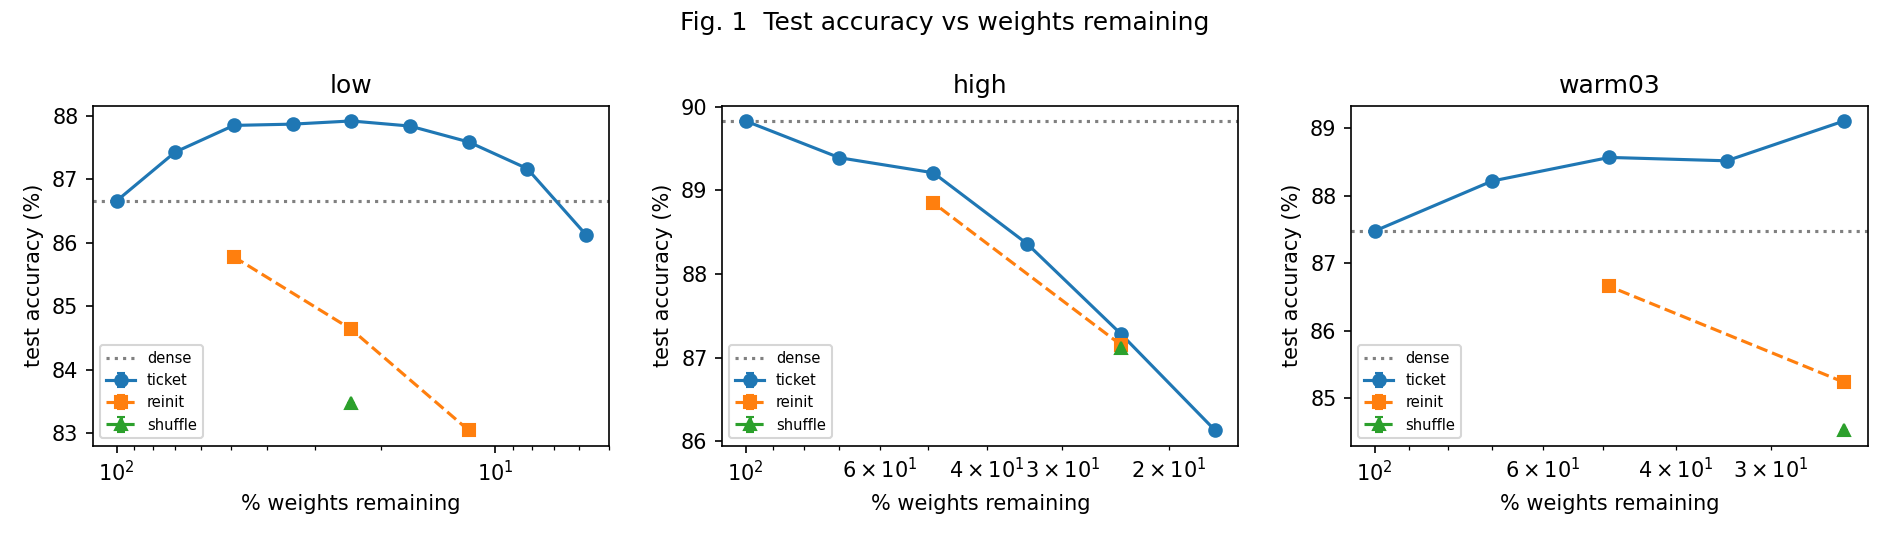
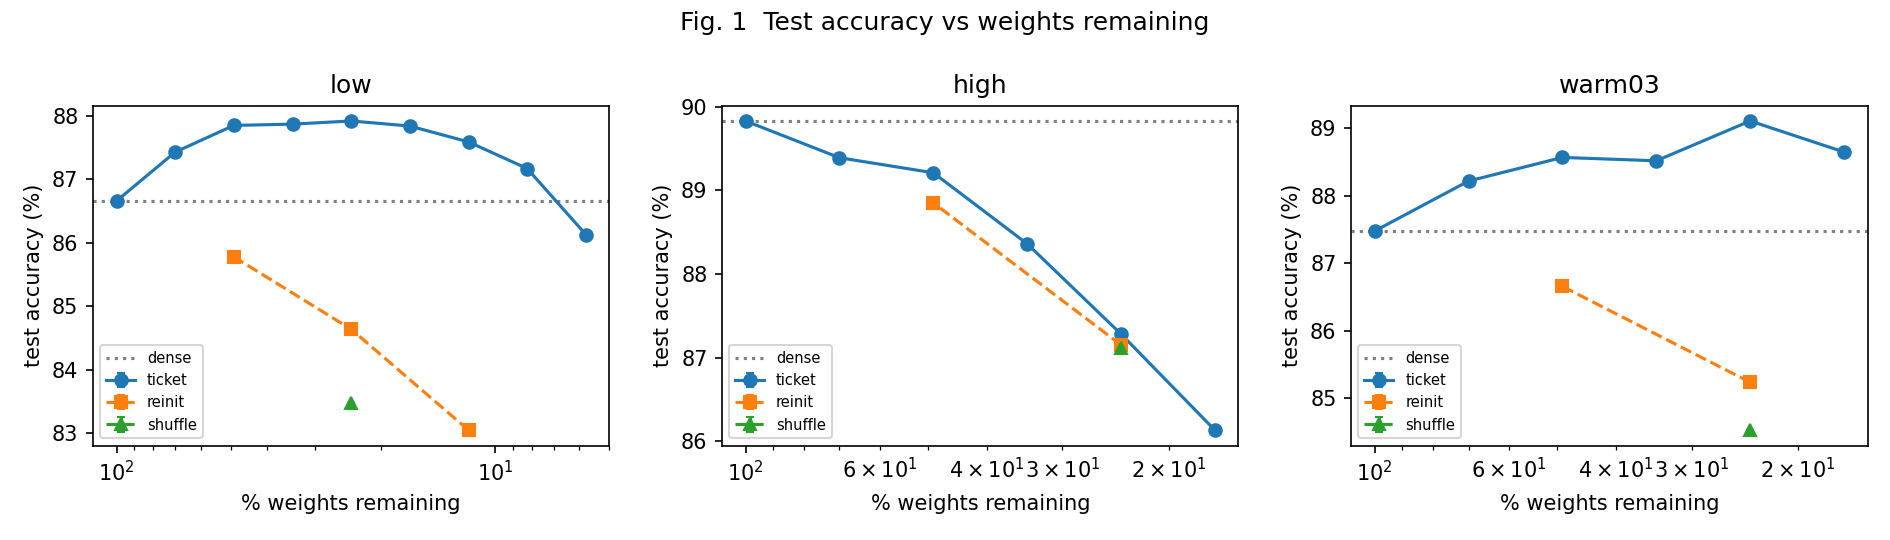
Status 08:25 UTC: Phase A 31/60, forecast, findings in Methodology section 10; high_warm auto-start after low

diff --git a/Methodology.md b/Methodology.md
@@ -138,15 +138,16 @@ collapse rather than a systematic ticket deficit (F1, F2).
 | # | Step | Status |
 |---|---|---|
 | 0 | Pilot on Conv-4 / Fashion-MNIST (CPU + GPU re-run); re-analysis → `pilot_results/PILOT_FINDINGS.md` | **done** (sessions 1–2) |
-| 1 | Code + tests (21 tests pass on the T4) | **done** |
+| 1 | Code + tests (23 tests pass on the T4) | **done** |
 | 2 | Benchmark / smoke run on the T4: ~9 min per 15k training, 2.46 GB peak VRAM; budget re-derived | **done** (session 2) |
-| 3a | Phase A: `low` seed 0 (15 trainings) | **running** (session 3; r0 dense 86.66%) |
-| 3b | Phase A: `high`, `warm03`, `high_warm` seed 0 | pending |
+| 3a | Phase A: `low` seed 0 (15 trainings) | **running**, 13/15 (r8 reinit + shuffle left; expected done ≈ 09:05 UTC) |
+| 3b | Phase A: `high`, `warm03` seed 0 (15 each), in parallel with `low` under MPS | **running**: high 9/15, warm03 9/15 (expected done ≈ 10:30–10:45 UTC) |
+| 3b' | Phase A: `high_warm` seed 0 (15) | pending; starts automatically when `low` finishes (expected done ≈ 12:30 UTC) |
 | 3c | Conv-4 chain at eta = 0.1 with the full S(t) trajectory | optional; needs `pilot/data/*.gz` on Drive (O8) |
-| 4 | **Gate A:** the ticket beats trained baselines at ≥ 3 sparsities for `low` and `warm03`, and not for `high` (`results/gate_a.md`). If it fails, stop and write up why | pending |
+| 4 | **Gate A:** the ticket beats trained baselines at ≥ 3 sparsities for `low` and `warm03`, and not for `high` (`results/gate_a.md`). If it fails, stop and write up why | partial: low PASS (3/3), warm03 2/2 so far (needs r6/r8), high has two tiny positive advantages (see section 10) |
 | 5 | Phase B: seed 1 of `low`, `high` and `warm03` (error bars) | pending (after Gate A) |
 | 6 | Phase B: H4 (lam selection, then 3 conditions × 3 masks × ticket + shuffle) | pending |
-| 7 | Analysis: `python -m analysis.plots` → summary.csv, figs 1–5, metrics table, gate_a.md | script ready |
+| 7 | Analysis: `python -m analysis.plots` → summary.csv, figs 1–5, metrics table, gate_a.md | script ready; re-run every 15 min by the autosave |
 | 8 | `results/FINDINGS.md`: verdict + numbers for H1–H4; final report | pending |
 
 **Compute (T4, D11 schedule):** Phase A ≈ 9 GPU-h and Phase B ≈ 10 GPU-h of training. The budget is **30 h of Colab
@@ -236,4 +237,30 @@ to 10k before any condition or seed is cut.
   (the `high` dense value is 0.226), and report step 0 separately. *Adopted in session 4 (section 9); the table above and fig. 3 use it.*
 - **Weight correlation.** Dense R_0.2 is 0.64 (low), 0.56 (warm03) and 0.25 (high; chance is 0.2), which agrees with Liu et al. A large LR
   decorrelates theta_T from theta_0, and warmup keeps part of the correlation.
-- **Ticket advantage (low):** +2.07 pp over reinit at 49.1% remaining. Tickets stay at or above dense accuracy down to 34.5% (87.87%).
+- **Ticket accuracy vs dense, by sparsity (seed 0, as of 08:25 UTC):**
+
+  | % remaining | low (dense 86.66%) | high (dense 89.83%) | warm03 (dense 87.48%) |
+  |---|---|---|---|
+  | 70.1 | +0.77 | −0.44 | +0.74 |
+  | 49.1 | +1.19 | −0.62 | +1.09 |
+  | 34.5 | +1.21 | −1.47 | +1.04 |
+  | 24.2 | +1.26 | −2.55 | +1.63 |
+  | 17.0 | +1.18 | −3.70 | +1.17 |
+  | 12.0 | +0.93 | | |
+  | 8.4 | +0.51 | | |
+  | 6.0 | −0.53 | | |
+
+  Low-LR and warmup tickets stay above dense to ≤ 17% remaining. The high-LR ticket loses accuracy steadily with sparsity.
+- **Ticket advantage over the best trained baseline (pp):** low +2.07 (49.1%), +3.28 (24.2%), +4.54 (12.0%), growing with sparsity;
+  warm03 +1.91 (49.1%), +3.87 (24.2%); high +0.36 (49.1%), +0.13 (24.2%). The best baseline was always the reinit (shuffle is lower).
+- **Gate A reading.** low passes (3/3). warm03 has 2/2 so far; its r6 and r8 baselines decide it. high has two positive advantages,
+  so the literal "no wins at high" criterion in `analysis/plots.py` fails. They are 10–30x smaller than low/warm03 and likely within
+  seed noise (one seed). By the section-5 *winning-ticket* definition, which also requires ticket acc ≥ dense − 0.5 pp, high has **no**
+  winning ticket at either point (−0.62 and −2.55 pp vs dense). **Open question for the user:** should Gate A's `high` criterion use the
+  winning-ticket definition (or a minimum advantage), rather than any positive difference? No code has been changed.
+- **Sharpness (H2, max S over steps 25–3k).** low 0.08–0.15, warm03 0.03–0.08 and high 0.22–0.54 (tickets). No run comes near S = 1, and
+  no run has diverged or spiked. At the high LR, the reinit's S is similar to the ticket's (0.33 vs 0.24 at 49.1%; 0.31 vs 0.31 at
+  24.2%). So far S does not separate winning from failing tickets at eta = 0.1: the tickets fail without reaching the edge of stability.
+  This is a first hint against the simple H2 mechanism, pending more rounds and seed 1.
+- **Weight correlation (R_0.2).** It falls with sparsity in every condition (low 0.64 → 0.26, warm03 0.56 → 0.29) and stays near chance
+  for high (0.23–0.25 throughout).

diff --git a/NOTES.md b/NOTES.md
@@ -8,9 +8,22 @@ measured and what is still open. **Update it at the end of every work session.**
 
 ## 1. Current status (2026-09-29, session 4, Colab T4)
 
-- **Now (07:30 UTC):** Phase A seed 0, three chains in parallel under MPS. Done: low r0–r6 ticket (r2/r4 baselines too), high r0–r4
-  ticket (r2 reinit, r4 reinit just in), warm03 r0–r4 ticket (r2 reinit). Running: low r6 reinit, warm03 r4 reinit, and the next high
-  training. Runtime used ≈ 5.3 h of 30. Findings so far are in the session-4 log (section 9).
+- **Now (08:25 UTC): Phase A 31/60 trainings done (52%); whole study ≈ 31/123 (25%).**
+  | Chain | Done | Left | Expected finish (UTC) |
+  |---|---|---|---|
+  | low | 13/15 | r8 reinit, r8 shuffle | ≈ 09:05 |
+  | high | 9/15 | r6 ticket (running), r6 reinit, r7, r8 ticket + reinit + shuffle | ≈ 10:30 |
+  | warm03 | 9/15 | same as high | ≈ 10:45 |
+  | high_warm | 0/15 | all; **starts automatically when low finishes** (`colab/start_after.sh`, log `/content/start_after.out`) | ≈ 12:30 |
+  Rate since the 05:10 relaunch: 24 trainings in 3.2 h = **7.4 trainings/h** with 3 chains (23 min wall each, ~8 min effective).
+  high_warm runs alone after ~10:45 (~9.3 min per training).
+  **Forecast:** Phase A done ≈ 12:30 UTC today, at ≈ 10.5 h runtime used of 30 (≈ 6.2 h now). Gate A can be read then. Phase B
+  (seed 1 of low/high/warm03 = 45 trainings, plus H4 ≈ 18 trainings incl. SAM) ≈ 9 h more with 3 chains → total ≈ 20 h of 30,
+  leaving ≈ 10 h reserve, minus idle time that is not logged. If the VM restarts, each chain loses ≤ 25 min.
+- **Findings so far:** see `Methodology.md` section 10 (accuracy-vs-dense table, ticket advantages, Gate A reading, H2 sharpness).
+  Short version: low and warm03 tickets win (up to +4.5 / +3.9 pp over reinit); high tickets fall below dense as sparsity grows
+  (−3.7 pp at 17%). No run reaches S ≈ 1, including the failing high tickets. **Open question:** Gate A's `high` criterion (any positive
+  advantage vs the winning-ticket definition), since high has two tiny positive advantages (+0.36, +0.13 pp).
 - **After a VM restart, run `bash colab/resume_phaseA.sh`** (copies CIFAR, starts MPS, relaunches any chain that is not running,
   starts the watcher). Finished trainings are skipped; only the training in progress is lost (~25 min per chain).
 - **Watcher, now in the repo (`colab/watcher.sh`):** commits and pushes each finished result, and **every 15 min autosaves**
@@ -139,7 +152,8 @@ python -m analysis.plots                                              # summary.
 | `configs/` | smoke, resnet20_{low,high,warm03,high_warm}, conv4_fmnist_high, h4_high, h4_high_sam, h4_high_anchor |
 | `colab/run_on_colab.ipynb` | Colab runner (mount, env, tests, smoke, benchmark summary, Phase A/B cells) |
 | `colab/watcher.sh` | session 4: commits + pushes each result, 15-min autosave of results/Methodology/NOTES |
-| `colab/resume_phaseA.sh` | session 4: one-command resume after a VM restart (CIFAR copy, MPS, chains, watcher) |
+| `colab/resume_phaseA.sh` | session 4: one-command resume after a VM restart (CIFAR copy, MPS, chains, watcher); default = all four Phase A chains |
+| `colab/start_after.sh` | session 4: start one chain when another finishes (used for low → high_warm) |
 | `tests/` | 23 tests (section 12 list plus schedules incl. the D11 schedule, NaN-mask guard, negative-dominant spectrum) |
 | `data/cifar-10-python.tar.gz` | official archive on Drive (not in git), uploaded from the laptop in session 2 |
 | `results/smoke/seed0/` | T4 smoke run with the D11 schedule (6 trainings); benchmark reference |
@@ -394,3 +408,7 @@ Reminders:
   - **08:08 UTC check:** low r7 (8.4%) ticket 87.17% (+0.51 pp vs dense, slowly falling toward dense). **high r5 (17.0%) ticket 86.13%:
     −3.70 pp vs dense** (the gap keeps widening), max S(25–3k) 0.248. warm03 r4 shuffle 84.53%, so the warm03 advantage at 24.2% stays +3.87 pp
     (best baseline = reinit). Running: low r8 ticket (5.97%, the last low round), warm03 r5 ticket, the next high training. Runtime 5.96 h.
+  - **08:25 UTC:** low r8 (6.0%) ticket 86.13%, the first low ticket below dense (−0.53 pp). warm03 r5 (17.0%) 88.65% (+1.17 pp), max S 0.030.
+    Updated `Methodology.md` (step statuses, accuracy-vs-dense table, advantages, Gate A reading, H2 observation). Added
+    `colab/start_after.sh` and started it: high_warm launches when low exits. The `resume_phaseA.sh` default now covers all four chains.
+    Gate A (strict script): low PASS 3/3, warm03 2/2 (needs a 3rd), high FAIL (2 tiny wins). Runtime 6.21 h.
